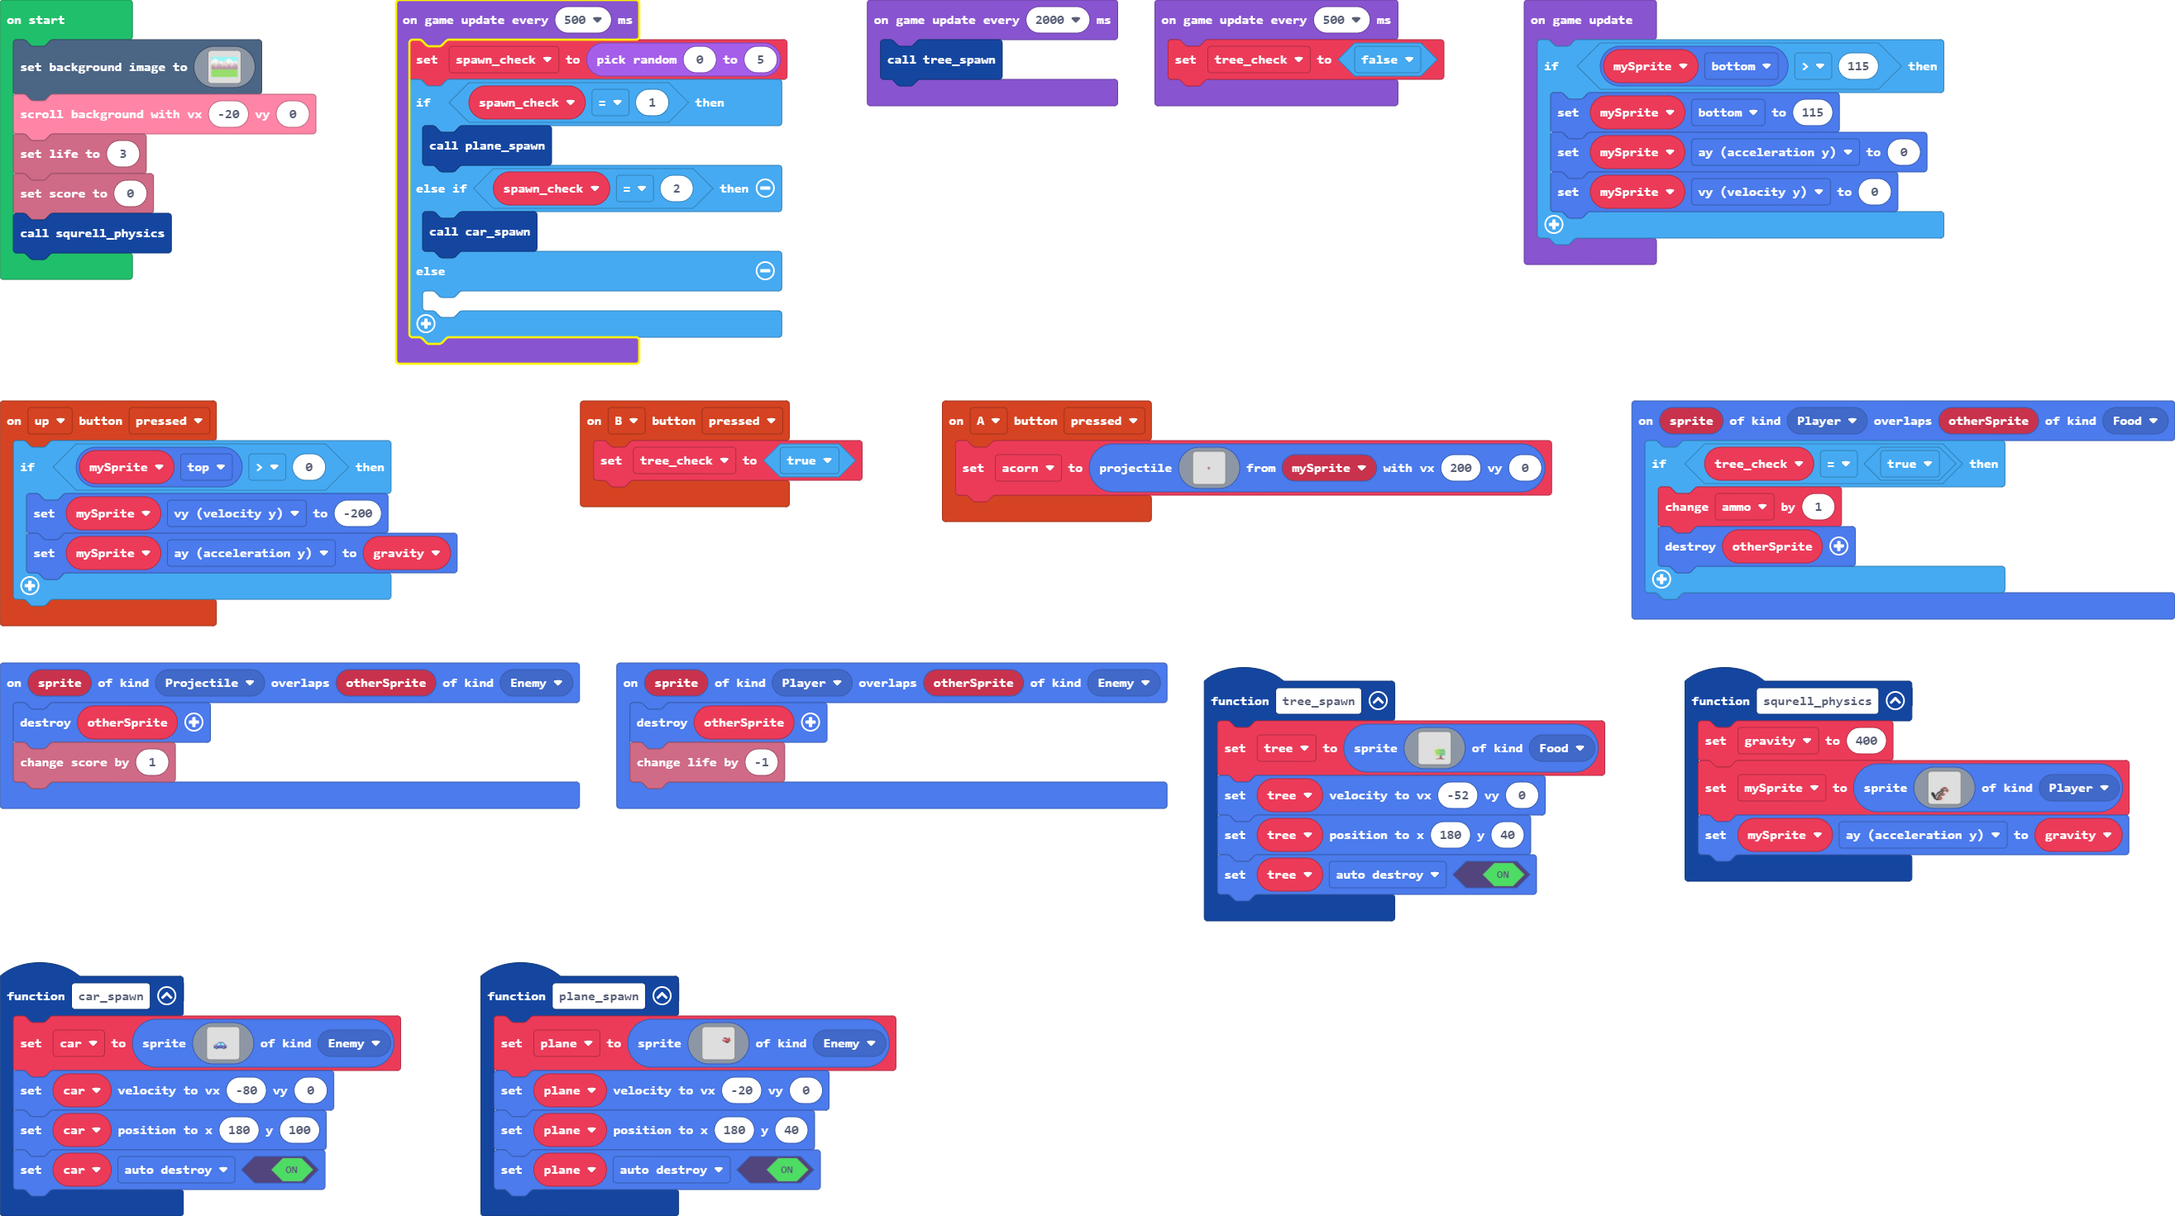
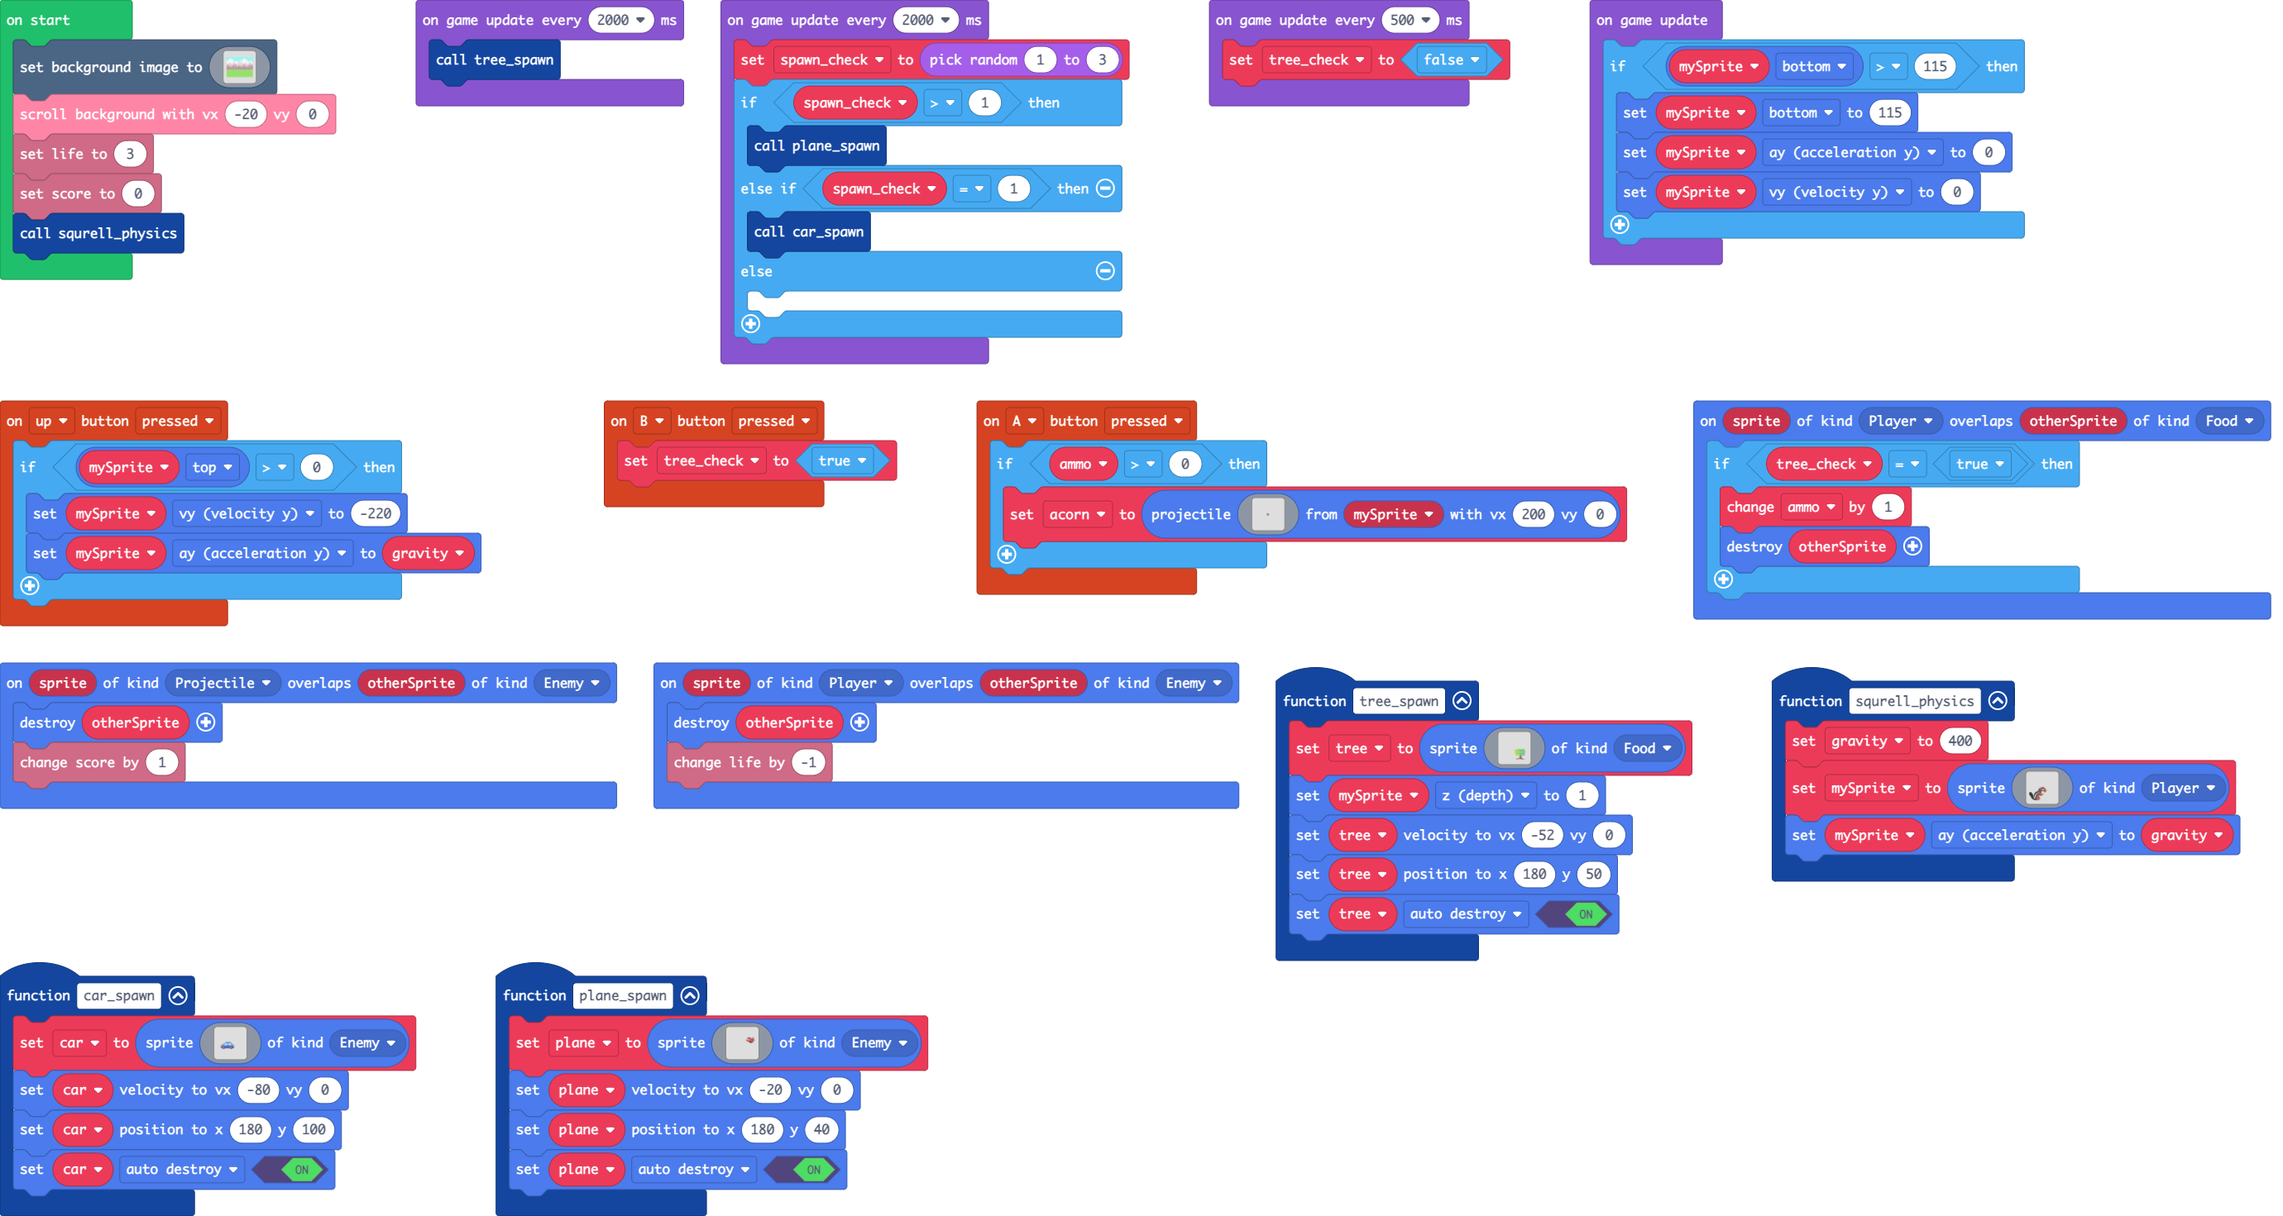
Update main.blocks, main.ts

diff --git a/main.ts b/main.ts
@@ -1,6 +1,6 @@
 controller.up.onEvent(ControllerButtonEvent.Pressed, function () {
     if (mySprite.top > 0) {
-        mySprite.vy = -200
+        mySprite.vy = -220
         mySprite.ay = gravity
     }
 })
@@ -90,8 +90,9 @@ function tree_spawn () {
         ................................................................................
         ................................................................................
         `, SpriteKind.Food)
+    mySprite.z = 1
     tree.setVelocity(-52, 0)
-    tree.setPosition(180, 40)
+    tree.setPosition(180, 50)
     tree.setFlag(SpriteFlag.AutoDestroy, true)
 }
 function squrell_physics () {
@@ -100,97 +101,99 @@ function squrell_physics () {
     mySprite.ay = gravity
 }
 controller.A.onEvent(ControllerButtonEvent.Pressed, function () {
-    acorn = sprites.createProjectileFromSprite(img`
-        ................................................................................
-        ................................................................................
-        ................................................................................
-        ................................................................................
-        ................................................................................
-        ................................................................................
-        ................................................................................
-        ................................................................................
-        ................................................................................
-        ................................................................................
-        ................................................................................
-        ................................................................................
-        ................................................................................
-        ................................................................................
-        ................................................................................
-        ................................................................................
-        ................................................................................
-        ................................................................................
-        ................................................................................
-        ................................................................................
-        ................................................................................
-        ................................................................................
-        ................................................................................
-        ................................................................................
-        ................................................................................
-        ................................................................................
-        ................................................................................
-        ................................................................................
-        ................................................................................
-        ................................................................................
-        ................................................................................
-        ................................................................................
-        ................................................................................
-        ................................................................................
-        ................................................................................
-        ................................................................................
-        ................................................................................
-        ................................................................................
-        ................................................................................
-        ................................................................................
-        ................................................................................
-        .......................................cc.......................................
-        ........................................c.......................................
-        ......................................ccccc.....................................
-        .....................................ceeeeec....................................
-        .....................................ccccccc....................................
-        ......................................e444e.....................................
-        ......................................e444e.....................................
-        ......................................e444e.....................................
-        .......................................eee......................................
-        ................................................................................
-        ................................................................................
-        ................................................................................
-        ................................................................................
-        ................................................................................
-        ................................................................................
-        ................................................................................
-        ................................................................................
-        ................................................................................
-        ................................................................................
-        ................................................................................
-        ................................................................................
-        ................................................................................
-        ................................................................................
-        ................................................................................
-        ................................................................................
-        ................................................................................
-        ................................................................................
-        ................................................................................
-        ................................................................................
-        ................................................................................
-        ................................................................................
-        ................................................................................
-        ................................................................................
-        ................................................................................
-        ................................................................................
-        ................................................................................
-        ................................................................................
-        ................................................................................
-        ................................................................................
-        ................................................................................
-        ................................................................................
-        ................................................................................
-        ................................................................................
-        ................................................................................
-        ................................................................................
-        ................................................................................
-        ................................................................................
-        ................................................................................
-        `, mySprite, 200, 0)
+    if (ammo > 0) {
+        acorn = sprites.createProjectileFromSprite(img`
+            ................................................................................
+            ................................................................................
+            ................................................................................
+            ................................................................................
+            ................................................................................
+            ................................................................................
+            ................................................................................
+            ................................................................................
+            ................................................................................
+            ................................................................................
+            ................................................................................
+            ................................................................................
+            ................................................................................
+            ................................................................................
+            ................................................................................
+            ................................................................................
+            ................................................................................
+            ................................................................................
+            ................................................................................
+            ................................................................................
+            ................................................................................
+            ................................................................................
+            ................................................................................
+            ................................................................................
+            ................................................................................
+            ................................................................................
+            ................................................................................
+            ................................................................................
+            ................................................................................
+            ................................................................................
+            ................................................................................
+            ................................................................................
+            ................................................................................
+            ................................................................................
+            ................................................................................
+            ................................................................................
+            ................................................................................
+            ................................................................................
+            ................................................................................
+            ................................................................................
+            ................................................................................
+            .......................................cc.......................................
+            ........................................c.......................................
+            ......................................ccccc.....................................
+            .....................................ceeeeec....................................
+            .....................................ccccccc....................................
+            ......................................e444e.....................................
+            ......................................e444e.....................................
+            ......................................e444e.....................................
+            .......................................eee......................................
+            ................................................................................
+            ................................................................................
+            ................................................................................
+            ................................................................................
+            ................................................................................
+            ................................................................................
+            ................................................................................
+            ................................................................................
+            ................................................................................
+            ................................................................................
+            ................................................................................
+            ................................................................................
+            ................................................................................
+            ................................................................................
+            ................................................................................
+            ................................................................................
+            ................................................................................
+            ................................................................................
+            ................................................................................
+            ................................................................................
+            ................................................................................
+            ................................................................................
+            ................................................................................
+            ................................................................................
+            ................................................................................
+            ................................................................................
+            ................................................................................
+            ................................................................................
+            ................................................................................
+            ................................................................................
+            ................................................................................
+            ................................................................................
+            ................................................................................
+            ................................................................................
+            ................................................................................
+            ................................................................................
+            ................................................................................
+            ................................................................................
+            ................................................................................
+            `, mySprite, 200, 0)
+    }
 })
 function car_spawn () {
     car = sprites.create(assets.image`Car`, SpriteKind.Enemy)
@@ -301,9 +304,9 @@ function plane_spawn () {
 }
 let spawn_check = 0
 let plane: Sprite = null
-let ammo = 0
 let car: Sprite = null
 let acorn: Sprite = null
+let ammo = 0
 let tree: Sprite = null
 let tree_check = false
 let gravity = 0
@@ -444,11 +447,11 @@ game.onUpdate(function () {
 game.onUpdateInterval(2000, function () {
     tree_spawn()
 })
-game.onUpdateInterval(500, function () {
-    spawn_check = randint(0, 5)
-    if (spawn_check == 1) {
+game.onUpdateInterval(2000, function () {
+    spawn_check = randint(1, 3)
+    if (spawn_check > 1) {
         plane_spawn()
-    } else if (spawn_check == 2) {
+    } else if (spawn_check == 1) {
         car_spawn()
     } else {
     	
